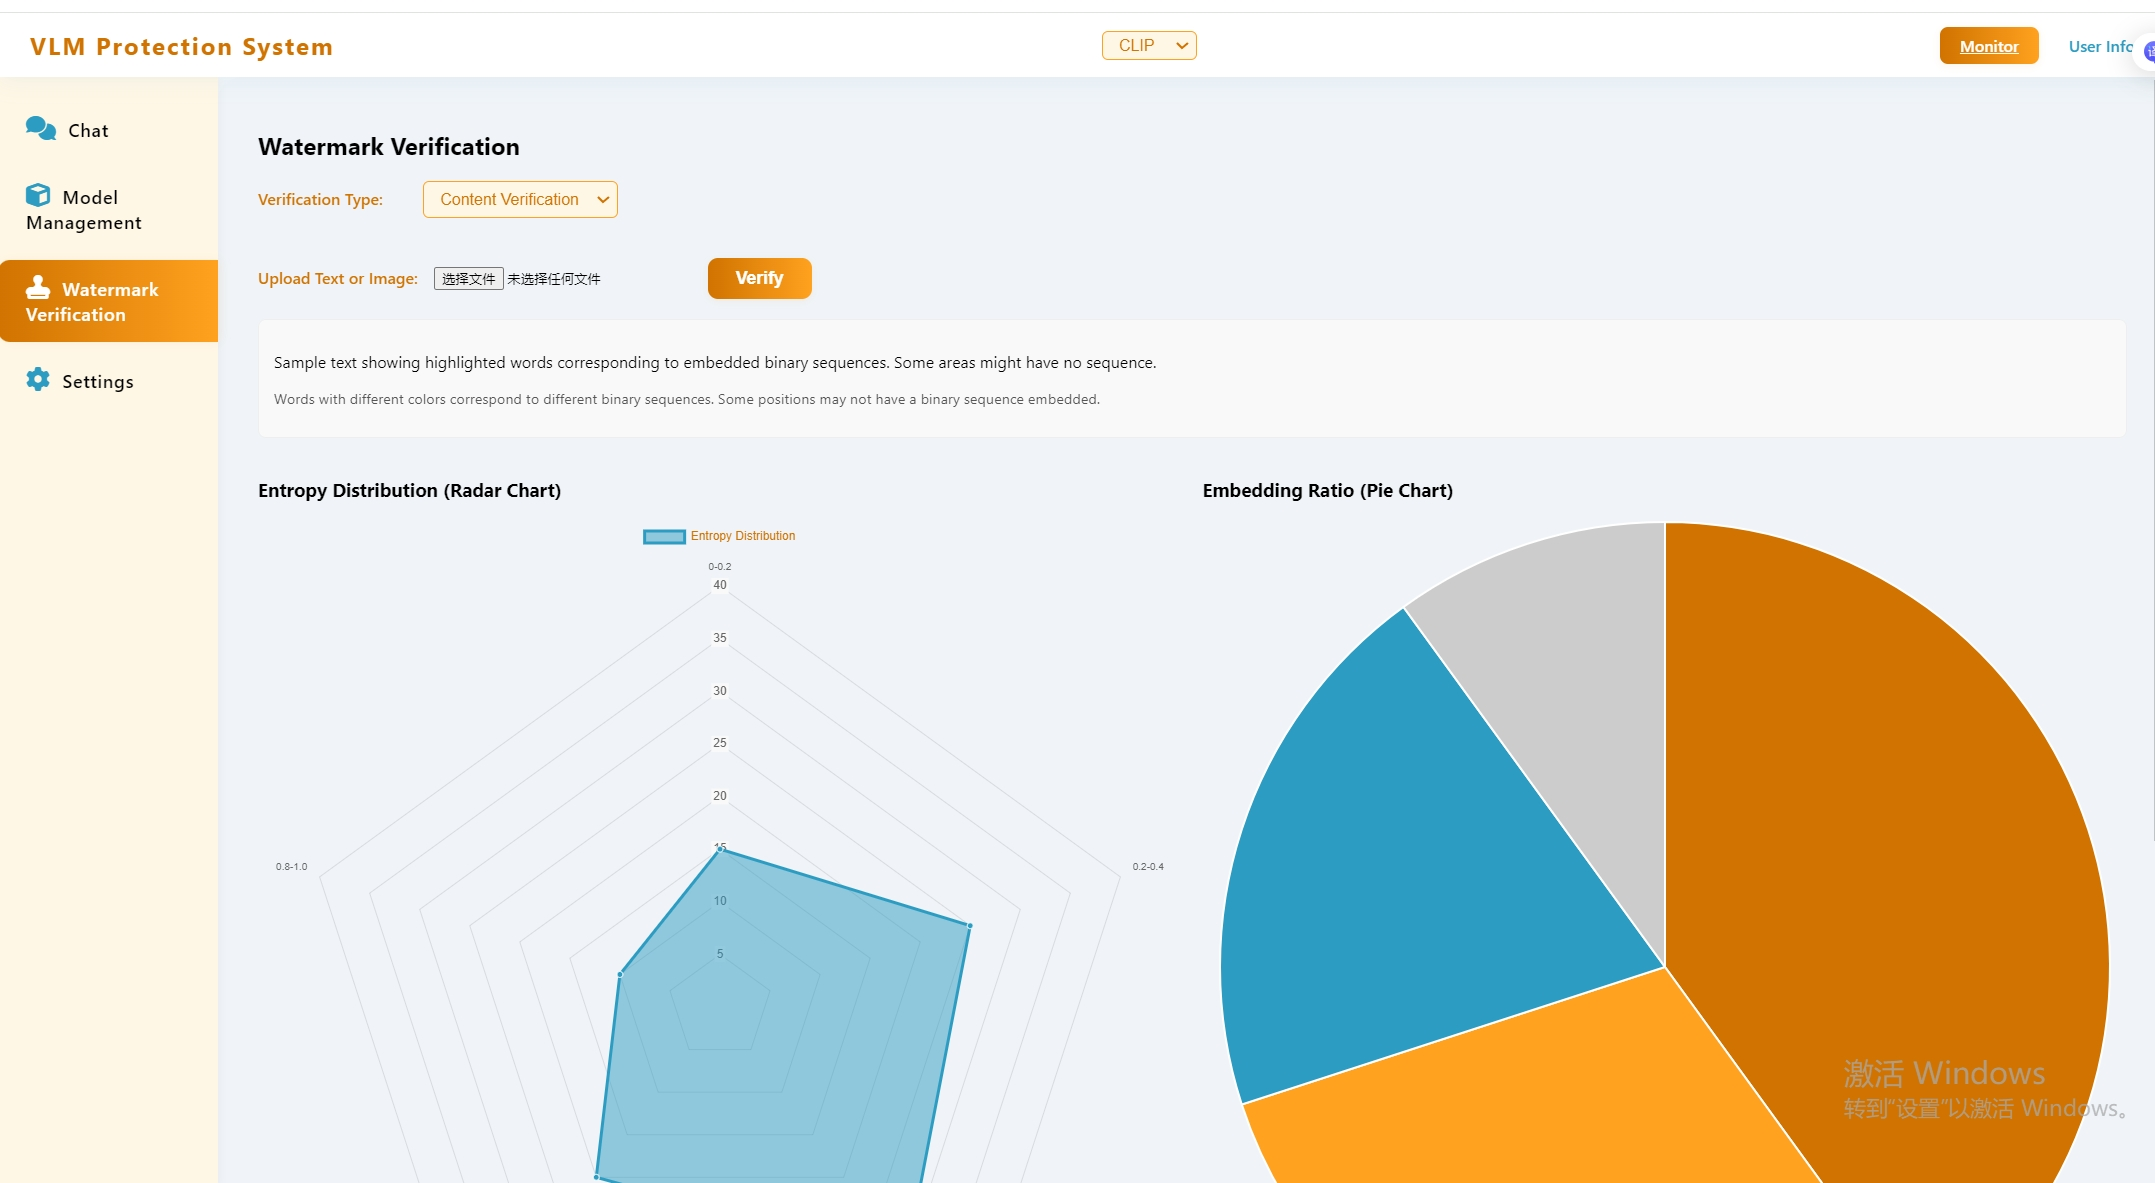
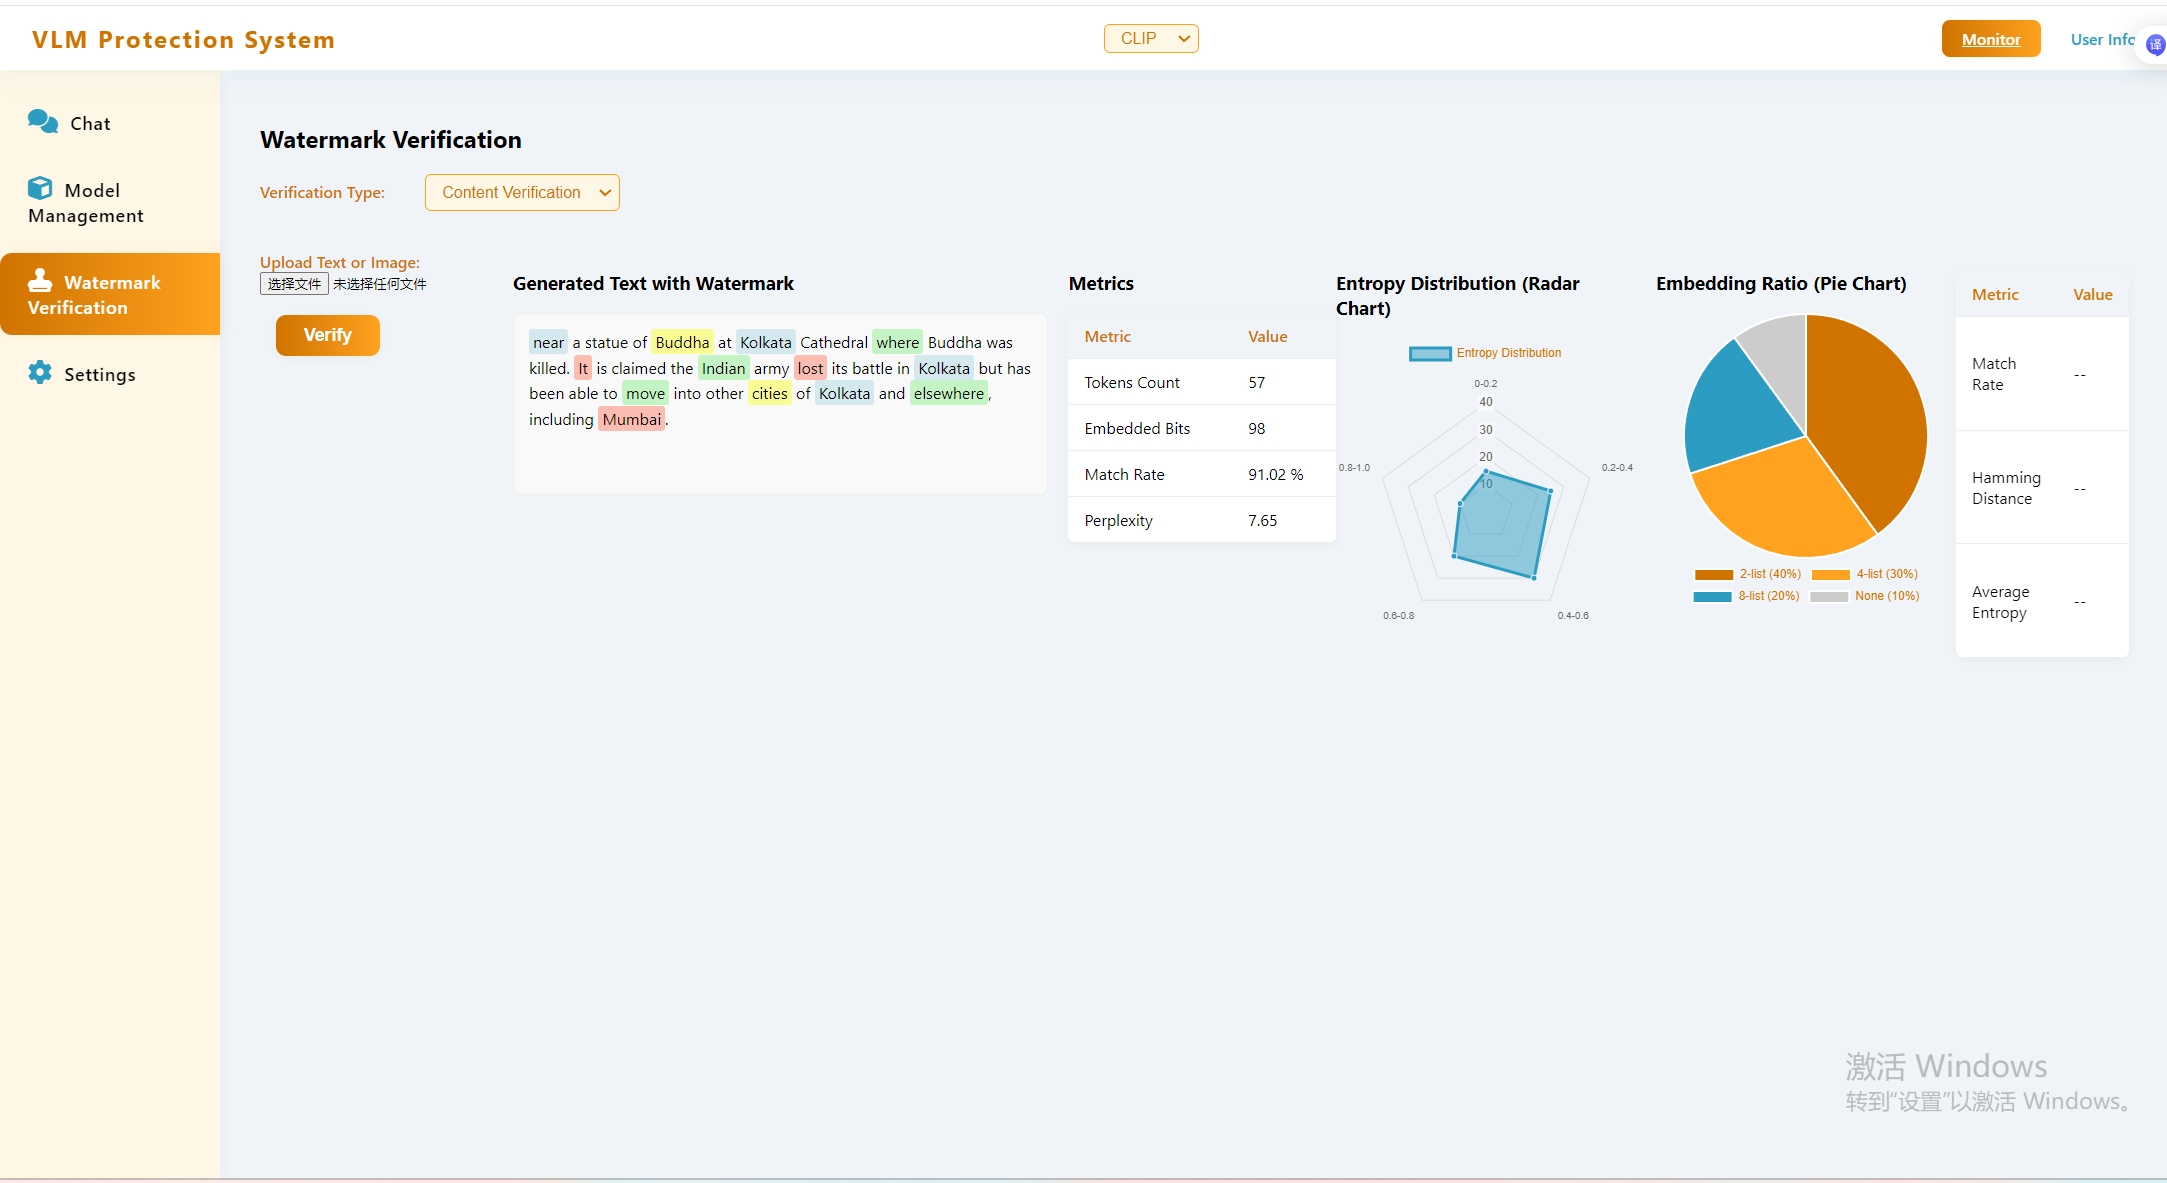
换图片

diff --git a/watermark.html b/watermark.html
@@ -53,14 +53,59 @@
                         <input type="file" id="file-upload" multiple>
                         <button class="send-btn" style="margin-left:16px;">Verify</button>
                     </div>
-                    <div class="text-highlight-area"
-                        style="margin-bottom:20px; padding: 15px; background-color: #f9f9f9; border-radius: 8px; border: 1px solid #eee;">
-                        <p>Sample text showing <span class="binary-highlight-1">highlighted</span> words corresponding
-                            to <span class="binary-highlight-2">embedded</span> binary sequences. Some areas might have
-                            <span class="binary-highlight-3">no sequence</span>.
-                        </p>
-                        <p style="font-size: 0.9em; color: #555;">Words with different colors correspond to different
-                            binary sequences. Some positions may not have a binary sequence embedded.</p>
+
+                    <!-- Generated Text and Metrics Module -->
+                    <div class="generated-output-module" style="display: flex; gap: 20px; margin-bottom: 20px;">
+                        <div style="flex: 2;">
+                            <h3>Generated Text with Watermark</h3>
+                            <div class="generated-text-area"
+                                style="padding: 15px; background-color: #f9f9f9; border-radius: 8px; border: 1px solid #eee; min-height: 150px; overflow-y: auto;">
+                                <p>
+                                    <span class="highlight-blue">near</span> a statue of <span
+                                        class="highlight-yellow">Buddha</span> at <span
+                                        class="highlight-blue">Kolkata</span> Cathedral <span
+                                        class="highlight-green">where</span> Buddha was killed. <span
+                                        class="highlight-red">It</span> is claimed the <span
+                                        class="highlight-green">Indian</span> army <span
+                                        class="highlight-red">lost</span> its battle in <span
+                                        class="highlight-blue">Kolkata</span> but has been able to <span
+                                        class="highlight-green">move</span> into other <span
+                                        class="highlight-yellow">cities</span> of <span
+                                        class="highlight-blue">Kolkata</span> and <span
+                                        class="highlight-green">elsewhere</span>, including <span
+                                        class="highlight-red">Mumbai</span>.
+                                </p>
+                            </div>
+                        </div>
+                        <div style="flex: 1;">
+                            <h3>Metrics</h3>
+                            <table class="model-table" style="width: 100%;">
+                                <thead>
+                                    <tr>
+                                        <th>Metric</th>
+                                        <th>Value</th>
+                                    </tr>
+                                </thead>
+                                <tbody>
+                                    <tr>
+                                        <td>Tokens Count</td>
+                                        <td>57</td>
+                                    </tr>
+                                    <tr>
+                                        <td>Embedded Bits</td>
+                                        <td>98</td>
+                                    </tr>
+                                    <tr>
+                                        <td>Match Rate</td>
+                                        <td>91.02 %</td>
+                                    </tr>
+                                    <tr>
+                                        <td>Perplexity</td>
+                                        <td>7.65</td>
+                                    </tr>
+                                </tbody>
+                            </table>
+                        </div>
                     </div>
 
                     <div style="display: flex; gap: 20px; margin-bottom: 20px;">
@@ -124,7 +169,7 @@
         let entropyRadarChart, embeddingRatioPieChart;
 
         function showVerificationSection(type) {
-            document.getElementById('content-verification-section').style.display = type === 'content' ? 'block' : 'none';
+            document.getElementById('content-verification-section').style.display = type === 'content' ? 'flex' : 'none'; // Use flex for layout
             document.getElementById('model-verification-section').style.display = type === 'model' ? 'block' : 'none';
 
             if (type === 'content') {

diff --git a/style.css b/style.css
@@ -293,7 +293,8 @@ body, html {
 }
 .content-section input[type="number"],
 .content-section input[type="range"],
-.content-section select {
+.content-section select,
+.content-section textarea {
     padding: 8px 12px;
     border-radius: 6px;
     border: 1px solid var(--color-secondary);
@@ -301,12 +302,78 @@ body, html {
     color: var(--color-primary);
     outline: none;
     transition: border 0.2s;
+    font-size: 1em;
 }
 .content-section input[type="number"]:focus,
 .content-section input[type="range"]:focus,
-.content-section select:focus {
+.content-section select:focus,
+.content-section textarea:focus {
     border: 1.5px solid var(--color-accent);
 }
 .content-section button {
     margin-top: 20px;
+}
+
+.verification-subsection {
+    margin-top: 20px;
+}
+
+.generated-output-module {
+    display: flex;
+    gap: 20px;
+    margin-bottom: 20px;
+    flex-wrap: wrap;
+}
+
+.generated-text-area {
+    flex: 2;
+    padding: 15px;
+    background-color: #fff;
+    border-radius: 8px;
+    border: 1px solid #eee;
+    min-height: 150px;
+    overflow-y: auto;
+    line-height: 1.6;
+}
+
+.generated-text-area p {
+    margin: 0;
+    padding: 0;
+}
+
+.generated-output-module .model-table {
+    flex: 1;
+    margin-top: 0;
+}
+
+.highlight-blue {
+    background-color: rgba(173, 216, 230, 0.5);
+    padding: 2px 4px;
+    border-radius: 3px;
+}
+
+.highlight-green {
+    background-color: rgba(144, 238, 144, 0.5);
+    padding: 2px 4px;
+    border-radius: 3px;
+}
+
+.highlight-yellow {
+    background-color: rgba(255, 255, 0, 0.4);
+    padding: 2px 4px;
+    border-radius: 3px;
+}
+
+.highlight-red {
+    background-color: rgba(255, 99, 71, 0.4);
+    padding: 2px 4px;
+    border-radius: 3px;
+}
+
+.trigger-word {
+    font-weight: bold;
+    color: var(--color-primary);
+    background-color: rgba(208, 115, 0, 0.1);
+    padding: 2px 4px;
+    border-radius: 3px;
 } 
